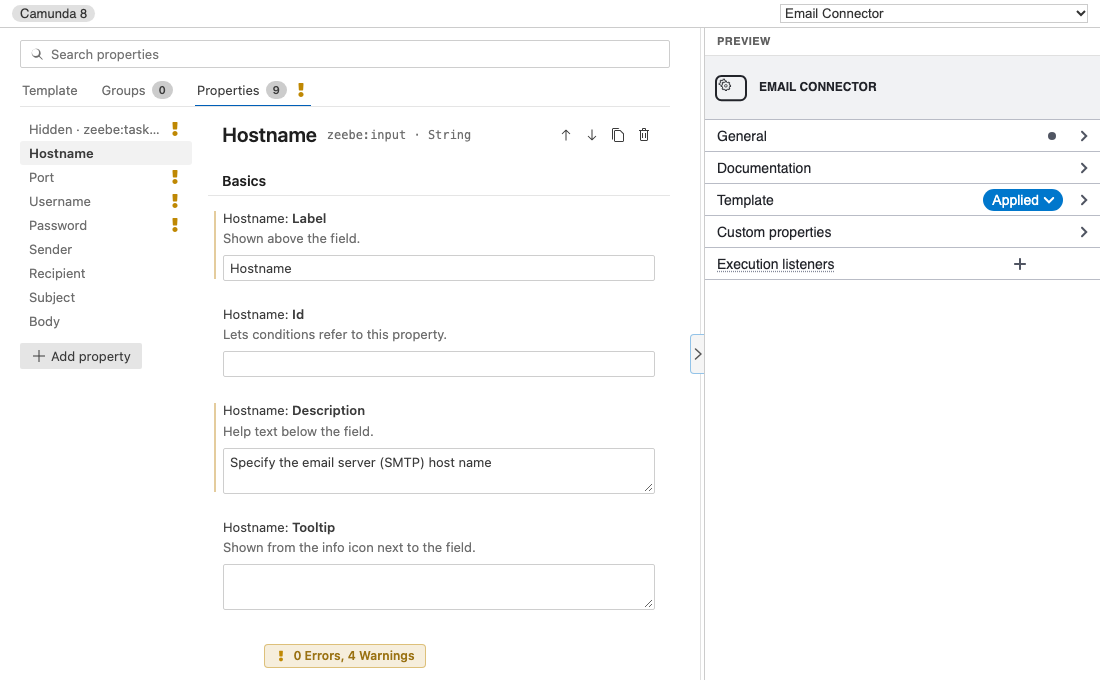
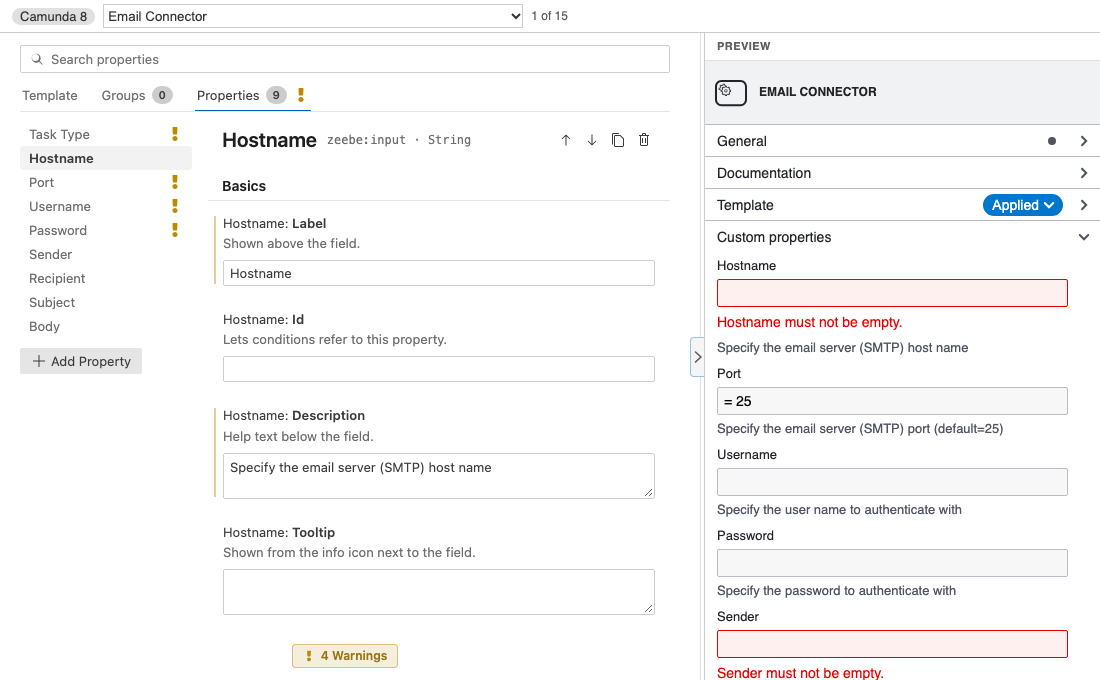
docs(editor): describe the template editor after the review of #2047
Also names the old task binding "Task Type" in lists, as the review asked, keeps
the smoke test's pointer off the explorer, whose hover covered the builder once
the new fixtures moved its rows, and writes down the library's dependencies and
layers in the ADR.

diff --git a/apps/vscode-plugin/test/smoke/vscodeSession.ts b/apps/vscode-plugin/test/smoke/vscodeSession.ts
@@ -226,6 +226,7 @@ export class VsCodeSession {
             .getByText(fileName, { exact: true })
             .first()
             .click();
+        await this.leaveExplorer();
     }
 
     /** A double click keeps the tab, where a single click opens one the next file replaces. */
@@ -235,6 +236,12 @@ export class VsCodeSession {
             .getByText(fileName, { exact: true })
             .first()
             .dblclick();
+        await this.leaveExplorer();
+    }
+
+    /** A pointer left on a row shows the file's hover, which can cover what a later step clicks. */
+    private async leaveExplorer(): Promise<void> {
+        await this.page.mouse.move(0, 0);
     }
 
     /** Webviews forward keybindings, so F1 reaches the palette without moving the focus first. */

diff --git a/libs/element-template-builder/src/domain/titles.ts b/libs/element-template-builder/src/domain/titles.ts
@@ -15,7 +15,8 @@ export function bindingTargets(binding: Json): unknown[] {
 function bindingTitle(binding: Json, catalog: EngineCatalog, translate: Translate): string {
     const spec = bindingSpecOf(catalog, binding.type);
     if (!spec) {
-        return stringOf(binding.type);
+        const label = catalog.jsonOnlyBindingLabels?.[stringOf(binding.type)];
+        return label ? translate(label) : stringOf(binding.type);
     }
     const target = bindingTargets(binding).map(stringOf).find(Boolean);
     return target ? `${translate(spec.label)} (${target})` : translate(spec.label);

diff --git a/libs/element-template-builder/src/catalog/types.ts b/libs/element-template-builder/src/catalog/types.ts
@@ -67,6 +67,8 @@ export interface EngineCatalog {
     bindings: readonly BindingSpec[];
     /** Binding types the schema knows and the builder only shows, to be edited in the JSON. */
     jsonOnlyBindings: readonly string[];
+    /** What to call a JSON-only binding that many templates use. */
+    jsonOnlyBindingLabels?: Readonly<Record<string, string>>;
     /** Element types offered for `appliesTo`, most common first. */
     elementTypes: readonly string[];
     /** Whether properties may carry C8's `id`, `condition`, `tooltip`, `feel` and `optional`. */

diff --git a/libs/element-template-builder/src/domain/titles.spec.ts b/libs/element-template-builder/src/domain/titles.spec.ts
@@ -26,6 +26,11 @@ describe("propertyTitle", () => {
             "Camunda user task",
         ],
         ["a binding it does not know", { binding: { type: "zeebe:new" } }, "zeebe:new"],
+        [
+            "the name of a binding only the JSON edits",
+            { binding: { type: "zeebe:taskDefinition:type" } },
+            "Task Type",
+        ],
         ["nothing else", { type: "String" }, "Unlabeled property"],
     ])("names a property by %s", (_, property, title) => {
         expect(propertyTitle(property, C8, translate)).toBe(title);

diff --git a/libs/element-template-builder/src/ui/TemplateBuilder.entries.spec.tsx b/libs/element-template-builder/src/ui/TemplateBuilder.entries.spec.tsx
@@ -515,7 +515,7 @@ describe("the index", () => {
             { type: "Hidden", value: "3", binding: { type: "zeebe:taskHeader", key: "retries" } },
             "Task header (retries)",
         ],
-        [{ binding: { type: "zeebe:taskDefinition:type" } }, "zeebe:taskDefinition:type"],
+        [{ binding: { type: "zeebe:taskDefinition:type" } }, "Task Type"],
         [{}, "Unlabeled property"],
     ])("titles %j as %s", (property, title) => {
         builder.show(template([property]));

diff --git a/libs/element-template-builder/src/domain/bindingOptions.ts b/libs/element-template-builder/src/domain/bindingOptions.ts
@@ -2,7 +2,7 @@ import type { BindingSpec, EngineCatalog } from "../catalog";
 import { arrayOf, objectOf, type Json } from "./json";
 
 /** The element types a binding works on; `undefined` for any. */
-export function elementsOfBinding(spec: BindingSpec): readonly string[] | undefined {
+function elementsOfBinding(spec: BindingSpec): readonly string[] | undefined {
     if (spec.elements) {
         return spec.elements;
     }

diff --git a/libs/element-template-builder/src/ui/builder.css b/libs/element-template-builder/src/ui/builder.css
@@ -288,7 +288,7 @@
 }
 
 .etb-builder .etb-empty {
-    padding: 16px 0;
+    padding: 16px 14px;
 }
 
 .etb-builder .etb-other-matches {
@@ -296,7 +296,11 @@
     flex-wrap: wrap;
     gap: 4px 12px;
     margin: 0;
-    padding: 16px 0;
+    padding: 16px 14px;
+}
+
+.etb-builder .etb-empty + .etb-other-matches {
+    padding-top: 0;
 }
 
 .etb-builder .etb-pane {

diff --git a/libs/element-template-builder/src/catalog/c8.ts b/libs/element-template-builder/src/catalog/c8.ts
@@ -44,6 +44,7 @@ export const C8_CATALOG: EngineCatalog = {
         "bpmn:ConditionalEventDefinition#property",
         "bpmn:ConditionalEventDefinition#zeebe:conditionalFilter#property",
     ],
+    jsonOnlyBindingLabels: { "zeebe:taskDefinition:type": "Task Type" },
     elementTypes: [
         "bpmn:ServiceTask",
         "bpmn:UserTask",

diff --git a/docs/vscode/features/element-template-editor.md b/docs/vscode/features/element-template-editor.md
@@ -7,8 +7,8 @@ Build [Camunda element templates](https://docs.camunda.io/docs/components/modele
 ## Create a template
 
 1. Run **Miragon BPMN Modeler: New Element Template** from the Command Palette, or choose **File > New File… > Element Template**.
-2. Enter a file name. The file goes into `<configFolder>/element-templates/` of your workspace folder (`.camunda/element-templates/` by default), where the modelers load templates from. In a workspace with several folders you pick the folder first; without an open folder you pick the file in a save dialog.
-3. The editor opens with a short start form. Pick the engine and the element type the template is for, enter a name and click **Create template**.
+2. Enter a file name. A name with spaces becomes kebab-case: `Send Invoice Mail` creates `send-invoice-mail.json`. The file goes into `<configFolder>/element-templates/` of your workspace folder (`.camunda/element-templates/` by default), where the modelers load templates from. In a workspace with several folders you pick the folder first; without an open folder you pick the file in a save dialog. An existing file is never overwritten.
+3. The editor opens with a short start form. Pick the engine and the element type the template is for, check the name, which starts from the file name, and click **Create template**. The template's `id` comes from the file name.
 
 <figure class="shot"><img src="./images/ete-start-form.png" alt="Start form with the fields Engine, Applies to and Name and the Create template button"><figcaption>The start form of a new, empty template file.</figcaption></figure>
 
@@ -19,14 +19,14 @@ The template is saved like any other file. Diagrams that load templates from tha
 - A `.json` file in an `element-templates` folder opens in the template editor.
 - A template elsewhere, a `.json` file whose `$schema` names an element template schema, opens as JSON. Click **Open in Element Template Editor** in its editor title, or use **Open With…**.
 - `$schema` decides the engine: `…/element-templates-json-schema/…` for Camunda 7, `…/zeebe-element-templates-json-schema/…` for Camunda 8. A template without `$schema` asks for the engine and writes the matching `$schema`.
-- A file with several templates gets a picker in the toolbar to choose which one to edit.
+- A file with several templates gets a picker in the toolbar to choose which one to edit, which also says where you are, such as **3 of 15**.
 
 ## Find your way around
 
 The editor is laid out like VS Code's settings editor:
 
 - **Template**, **Groups** and **Properties** tabs. Each tab shows how many items it lists and the worst problem in it.
-- The **search box** narrows the current tab: properties by label, id or binding, groups by label or id, template settings by name or description.
+- The **search box** narrows the current tab: properties by label, id or binding, groups by label or id, template settings by name or description. The tabs count what matches, and a tab without matches links to the tabs that have some.
 - The **list on the left** shows the groups or properties; click one to edit its settings.
 - Each **setting** is titled like *Hostname: **Label***, with a short description below. A bar marks the values the JSON sets.
 
@@ -41,7 +41,7 @@ The **preview** on the right shows the properties panel the template produces. D
 **Properties** are the fields users fill in:
 
 - **Add Property**, and the buttons next to a property's name to move it up or down, duplicate it or delete it.
-- **Binding** decides where the value is written, for example an input mapping, a task header or a BPMN attribute. The binding's own fields follow, and switching the binding removes only what the new one does not allow.
+- **Binding** decides where the value is written, for example an input mapping, a task header or a BPMN attribute; on Camunda 7 also a call activity's in and out mappings and business key. The list starts with what works on the elements the template applies to. Below it come the bindings for other element types, and those you can only edit in the JSON so far, which you cannot pick. The binding's own fields follow, and switching the binding removes only what the new one does not allow.
 - **Type** is the kind of field users see: String, Text, Boolean, Number, Dropdown or Hidden. A Dropdown gets its **Choices** here.
 - **Value** is what new elements start with; for a Hidden property it is always written.
 - Options such as **Editable**, **Required**, minimum and maximum length, a **Pattern** with its message and a **Placeholder**. On Camunda 8 also **FEEL**, **Optional**, **Tooltip**, the property's **Id** and **Show only when**: conditions on other properties (*Equals*, *Is one of*, *Is shown*, *Is empty*) that must all hold for the field to show.
@@ -50,7 +50,7 @@ Keys the editor does not have a field for stay as they are; a note under the pro
 
 ## Fix problems
 
-The chip at the bottom of the form sums up the problems, for example **3 Errors, 4 Warnings**. Click it to list them above the form, errors first. **Show** opens the tab and the property a problem is about and focuses its field; some problems offer a fix in one click, such as adding the property a binding needs or setting the element type it needs.
+The chip at the bottom of the form sums up the problems, for example **3 Errors, 4 Warnings**. Click it to list them above it, errors first; `Esc` or switching the tab closes the list. **Show** opens the tab and the property a problem is about and focuses its field. Some problems offer a fix in one click, such as adding the property a binding needs, setting the element type it needs, or replacing what is deprecated.
 
 <figure class="shot"><img src="./images/ete-problems.png" alt="Problems list with two errors offering the fixes Set the element type and Add it, and several deprecation warnings, each with a Show link"><figcaption>A property switched to a form binding: two errors with their fixes, and the validator's deprecation warnings.</figcaption></figure>
 
@@ -60,7 +60,8 @@ The problems come from the official Camunda validator and from checks the schema
 - conditions and groups refer to properties and groups that exist;
 - a Dropdown's value is one of its choices;
 - a form is set by either a form id or an external reference;
-- a binding has what it needs elsewhere, such as the element type or another property.
+- group ids are unique;
+- a binding has what it needs elsewhere, such as the element type or another property, and is on an element it works on.
 
 While the template has errors, the preview keeps showing the last template without errors and says so.
 
@@ -72,10 +73,11 @@ The JSON stays the source of truth. Click **Toggle JSON Editor** in the editor t
 - Changes in the JSON show up in the form right away.
 - While the JSON is broken, the form shows the last valid template read-only and says what is wrong.
 - Saving the file saves the changes of the form too.
+- If the JSON has a shape that a change cannot be written into, for example an `elementType` that is not an object, the editor writes nothing and says where to fix it.
 
 ## Limitations
 
-- Templates for a process or a sequence flow cannot be previewed yet; they can still be edited.
+- Templates for a process or a sequence flow cannot be previewed yet; they can still be created and edited.
 - The template editor is available in VS Code and the desktop app, not in IntelliJ yet.
 
 ## Next steps

diff --git a/docs/adr/bpmn-modeler.md b/docs/adr/bpmn-modeler.md
@@ -317,7 +317,8 @@ survives the re-import of each `show`, so an edit does not reopen what the user
 collapsed. It deliberately overrides a C8 group's `openByDefault: false`, because
 a preview that hides its own fields misses its purpose.
 
-Templates for a process or a sequence flow are reported as not previewable:
+Templates for a process or a sequence flow are reported as not previewable, by
+naming the type (`unsupportedType`) so that the page can say so in its language:
 selecting such a templated element throws inside create-append-anything's
 remove-template replace entry. That also affects the modeler itself and needs
 an upstream or local fix before the preview can show them.
